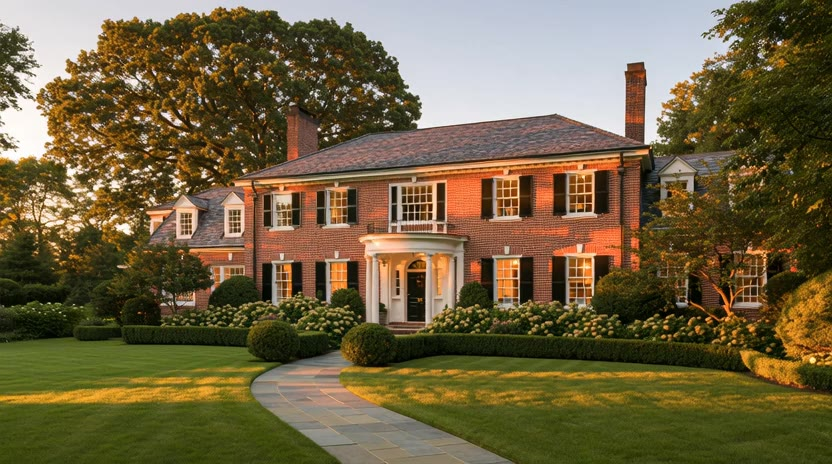
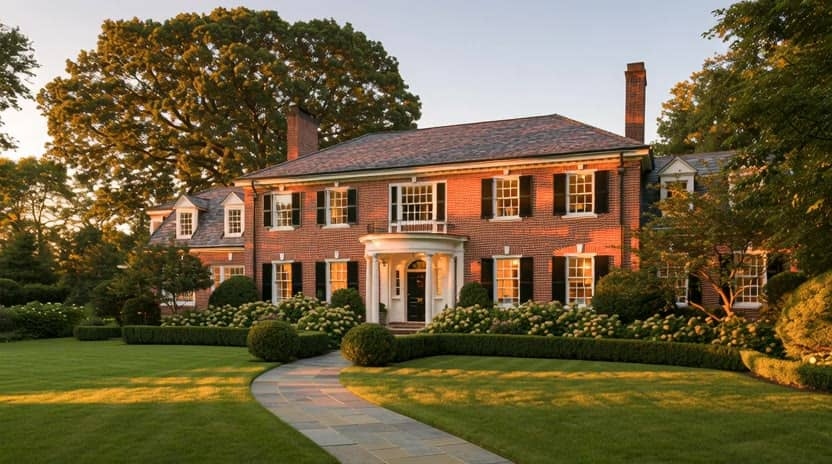
Hero poster: smaller encode + homepage-only preload
Poster re-encoded with mozjpeg (128KB -> 63KB, same 832x464). A tiny
inline script in index.html preloads it only when the path is '/', so
town pages don't pay for it. Local mobile LCP on / drops 3.2s -> 2.2s.

diff --git a/index.html b/index.html
@@ -11,6 +11,14 @@
     <link rel="preconnect" href="https://fonts.gstatic.com" crossorigin />
     <link rel="preconnect" href="https://www.googletagmanager.com" />
     <link rel="stylesheet" href="https://fonts.googleapis.com/css2?family=Cormorant+Garamond:wght@300;400;500;600&family=Montserrat:wght@300;400;500;600&display=swap" />
+    <script>
+      // Homepage only: preload the hero poster (the largest paint) before the app bundle runs.
+      if (location.pathname === '/') {
+        var l = document.createElement('link');
+        l.rel = 'preload'; l.as = 'image'; l.href = '/video/colonial-home-loop-poster.jpg'; l.fetchPriority = 'high';
+        document.head.appendChild(l);
+      }
+    </script>
     <style>
       /* Global focus ring: visible on both light and dark backgrounds. All other styling is inline (src/components/styles.js). */
       :focus-visible { outline: 2px solid #1a1a1a; outline-offset: 2px; box-shadow: 0 0 0 4px #fff; }
